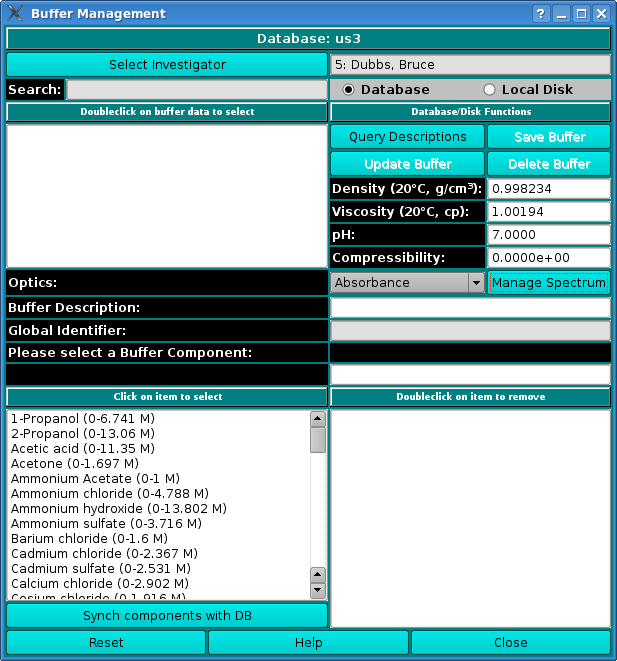
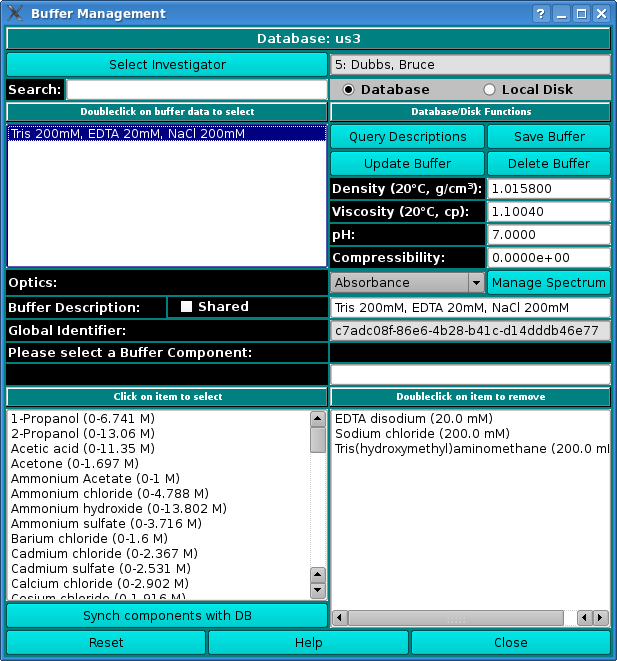
Update usage and documentation fo us_buffer.
git-svn-id: svn://bcf2.uthscsa.edu/ultrascan3/trunk@820 0b344138-67e3-44e0-be2b-e1ba3e4701c6

diff --git a/gui/us_buffer_gui.cpp b/gui/us_buffer_gui.cpp
@@ -66,7 +66,8 @@ US_BufferGui::US_BufferGui(
    main->addLayout( search, row++, 0 );
 
    // Buffer descriptions from DB
-   QLabel* lb_banner1 = us_banner( tr( "Doubleclick on buffer data to select" ), -2 );
+   QLabel* lb_banner1 = us_banner( 
+         tr( "Doubleclick on buffer data to select" ), -2 );
    lb_banner1->setSizePolicy( QSizePolicy::Preferred, QSizePolicy::Fixed );
    main->addWidget( lb_banner1, row++, 0 );
 
@@ -87,9 +88,9 @@ US_BufferGui::US_BufferGui(
 
    // Set up checkbox colors to match label (as set in us_config)
    QPalette p = US_GuiSettings::labelColor();
-   p.setColor( QPalette::Base,   p.color( QPalette::WindowText ) );  // Checkbox BG
-   p.setColor( QPalette::Button, p.color( QPalette::Window     ) );  // Checkbox Text BG
-   p.setColor( QPalette::Text,   p.color( QPalette::Window     ) );  // Checkbox FG
+   p.setColor( QPalette::Base,   p.color( QPalette::WindowText ) );  // CB BG
+   p.setColor( QPalette::Button, p.color( QPalette::Window     ) );  // Text BG
+   p.setColor( QPalette::Text,   p.color( QPalette::Window     ) );  // CB FG
 
    shared->itemAt( 0 )->widget()->setPalette( p );
    shared->itemAt( 1 )->widget()->setPalette( p );
@@ -229,8 +230,8 @@ US_BufferGui::US_BufferGui(
 
    le_description = us_lineedit();
    main->addWidget( le_description, row++, 1, 1, 2 );
-   connect( le_description, SIGNAL( returnPressed() ),
-                            SLOT( new_description() ) );
+   connect( le_description, SIGNAL( editingFinished() ),
+                            SLOT  ( new_description() ) );
    le_description->setEnabled( false );
 
    le_guid = us_lineedit();
@@ -252,8 +253,8 @@ US_BufferGui::US_BufferGui(
    main->addWidget( lb_units, row++, 1, 1, 2 );
 
    le_concentration = us_lineedit();
-   connect( le_concentration, SIGNAL( returnPressed() ), 
-                              SLOT  ( add_component() ) );
+   connect( le_concentration, SIGNAL( editingFinished() ), 
+                              SLOT  ( add_component  () ) );
    main->addWidget( le_concentration, row++, 1, 1, 2 );
 
    // Current buffer
@@ -505,8 +506,9 @@ void US_BufferGui::read_buffer( void )
    le_search->setPalette( gray );
    le_search->setReadOnly( true );
 
-   pb_save  ->setEnabled( false );
-   pb_update->setEnabled( false );
+   bool desc_set = le_description->text().size() > 0;
+   pb_save  ->setEnabled( desc_set );
+   pb_update->setEnabled( desc_set );
    pb_del   ->setEnabled( false );
 
    QDir f( path );
@@ -570,8 +572,9 @@ void US_BufferGui::read_db( void )
    le_search->setPalette( gray );
    le_search->setReadOnly( true );
 
-   pb_save  ->setEnabled( false );
-   pb_update->setEnabled( false );
+   bool desc_set = le_description->text().size() > 0;
+   pb_save  ->setEnabled( desc_set );
+   pb_update->setEnabled( desc_set );
    pb_del   ->setEnabled( false );
 
    le_search->setText( "" );
@@ -593,20 +596,9 @@ void US_BufferGui::read_db( void )
    lw_buffer_db->clear();
    
    if ( descriptions.size() == 0 )
+   {
       lw_buffer_db->addItem( "No buffer files found." );
-
-   /*if ( descriptions.size() < 1 )
-      QMessageBox::information( this,
-            tr( "No data" ),
-            tr( "No buffers found for the selected investigator,\n"
-                "You can click on \"Reset\", then query the DB to \n"
-                "find shared buffers from all Investigators." ) );
-   
-   else if ( descriptions.size() < 1 )
-      QMessageBox::information( this,
-            tr( "No data" ),
-            tr( "There are no buffer entries." ) );
-   */
+   }
    else
    { 
       le_search->setReadOnly( false );
@@ -980,7 +972,7 @@ void US_BufferGui::save_db( void )
       return;
    }
 
-   reset();
+   //reset();
    read_db();
 }
 
@@ -1343,21 +1335,21 @@ void US_BufferGui::new_description()
 
       if ( buffer.GUID.isEmpty()  &&  disk_controls->db() )
       {  // if no GUID yet and from DB, read GUID
-         QString bufferID = bufferIDs[ row ];
+         QString   bufferID = bufferIDs[ row ];
          US_Passwd pw;
          US_DB2    db( pw.getPasswd() );
-   
+
          if ( db.lastErrno() != US_DB2::OK )
             connect_error( db.lastError() );
-   
+
          QStringList q( "get_buffer_info" );
          q << bufferID;
-      
+
          db.query( q );
          db.next(); 
-   
-         buffer.bufferID        = bufferID;
-         buffer.GUID            = db.value( 0 ).toString();
+
+         buffer.bufferID = bufferID;
+         buffer.GUID     = db.value( 0 ).toString();
       }
 
       int response = QMessageBox::question( this,
@@ -1368,7 +1360,7 @@ void US_BufferGui::new_description()
              "Click \"Yes\" to update the existing buffer.\n" ),
          QMessageBox::Yes, QMessageBox::No );
 
-      row           = -1;
+      row = -1;
 
       if ( response == QMessageBox::No )
       {  // new description (even if duplicate)
@@ -1383,8 +1375,7 @@ void US_BufferGui::new_description()
          {
             if ( buffer.description == lw_buffer_db->item( ii )->text() )
             {
-               row   = ii;
-   
+               row = ii;
                break;
             }
          }

diff --git a/utils/us_buffer.cpp b/utils/us_buffer.cpp
@@ -48,10 +48,10 @@ void US_BufferComponent::getInfoFromDB( US_DB2& db )
    db.query( q );
    db.next();
 
-   unit = db.value( 0 ).toString();
-   name = db.value( 1 ).toString();
-   QString viscosity       = db.value( 2 ).toString();
-   QString density         = db.value( 3 ).toString();
+   unit              = db.value( 0 ).toString();
+   name              = db.value( 1 ).toString();
+   QString viscosity = db.value( 2 ).toString();
+   QString density   = db.value( 3 ).toString();
 
    QStringList sl = viscosity.split( " " );
 
@@ -401,26 +401,28 @@ bool US_Buffer::readFromDB( US_DB2& db, const QString& bufID )
 
    while ( db.next() )
    {
-      QString index = db.value( 0 ).toString();
-      componentIDs  << index;
+      componentIDs  << db.value( 0 ).toString();
       concentration << db.value( 4 ).toString().toDouble();
+   }
 
+   for ( int i = 0; i < componentIDs.size(); i++ )
+   {
       US_BufferComponent bc;
-      bc.componentID = index;
+      bc.componentID = componentIDs[ i ];
       bc.getInfoFromDB( db );
-      component << bc;
+       component << bc;
    }
 
    // Get spectrum data
    getSpectrum( db, "Refraction" );
    getSpectrum( db, "Extinction" );
    getSpectrum( db, "Fluorescence" );
-
    return true;
 }
 
 int US_Buffer::saveToDB( US_DB2& db, const QString private_buffer ) const
 {
+dumpBuffer();;
    QStringList q( "new_buffer" );
    q << GUID
      << description
@@ -444,7 +446,6 @@ int US_Buffer::saveToDB( US_DB2& db, const QString private_buffer ) const
         << QString::number( bufferID )
         << component[ i ].componentID
         << QString::number( concentration[ i ], 'f', 5 );
-
       db.statusQuery( q );
 
       if ( db.lastErrno() != US_DB2::OK ) return -2;
